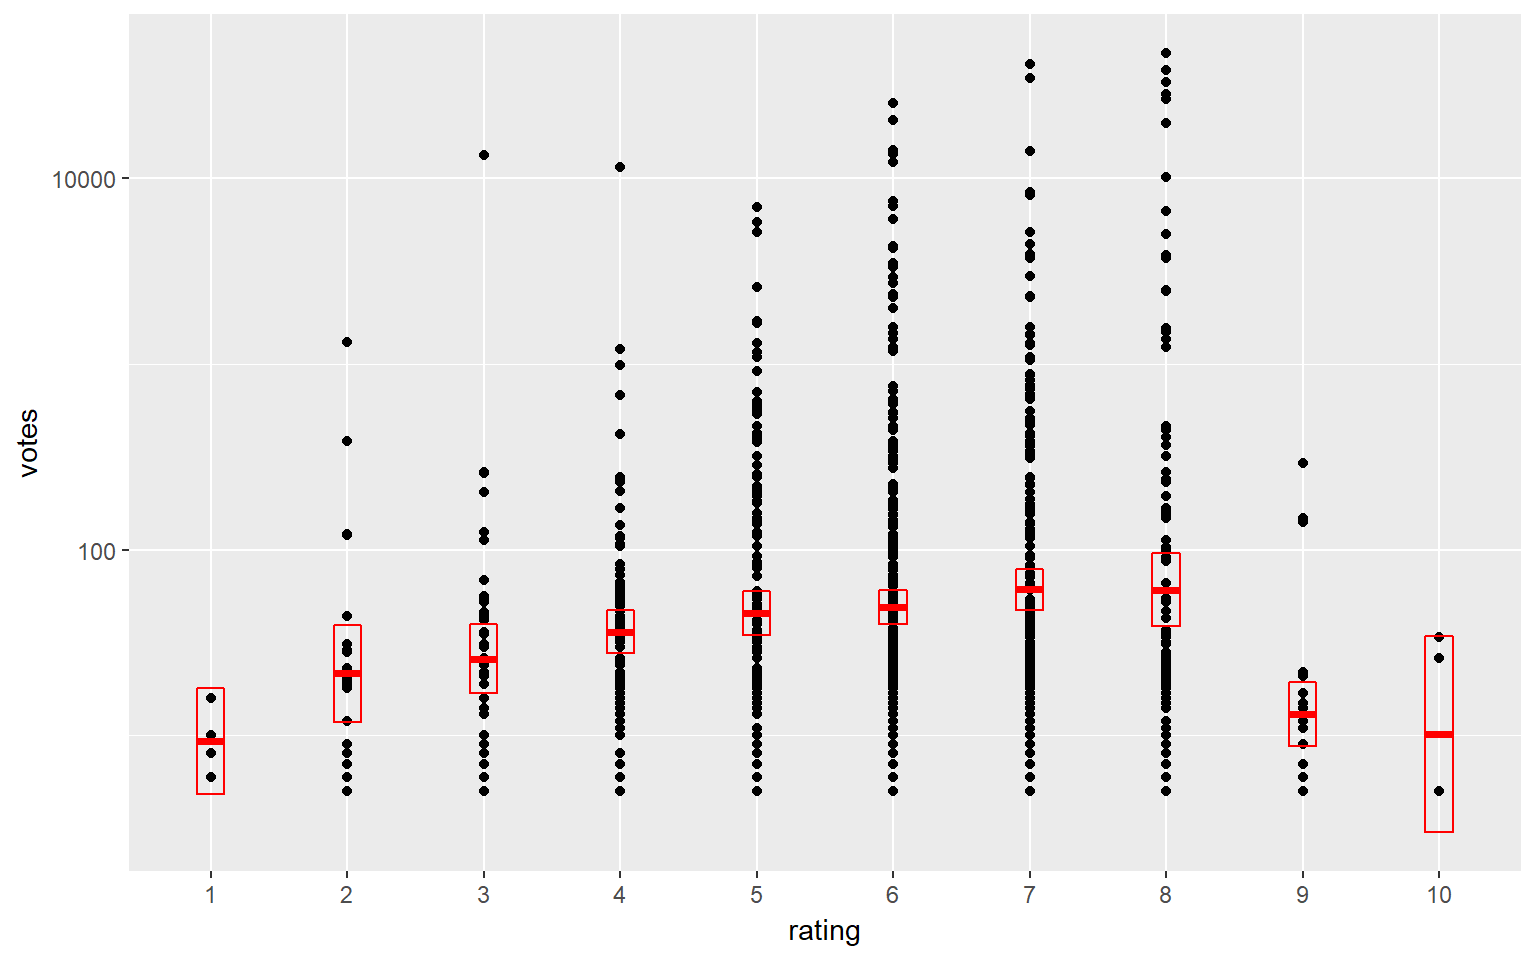
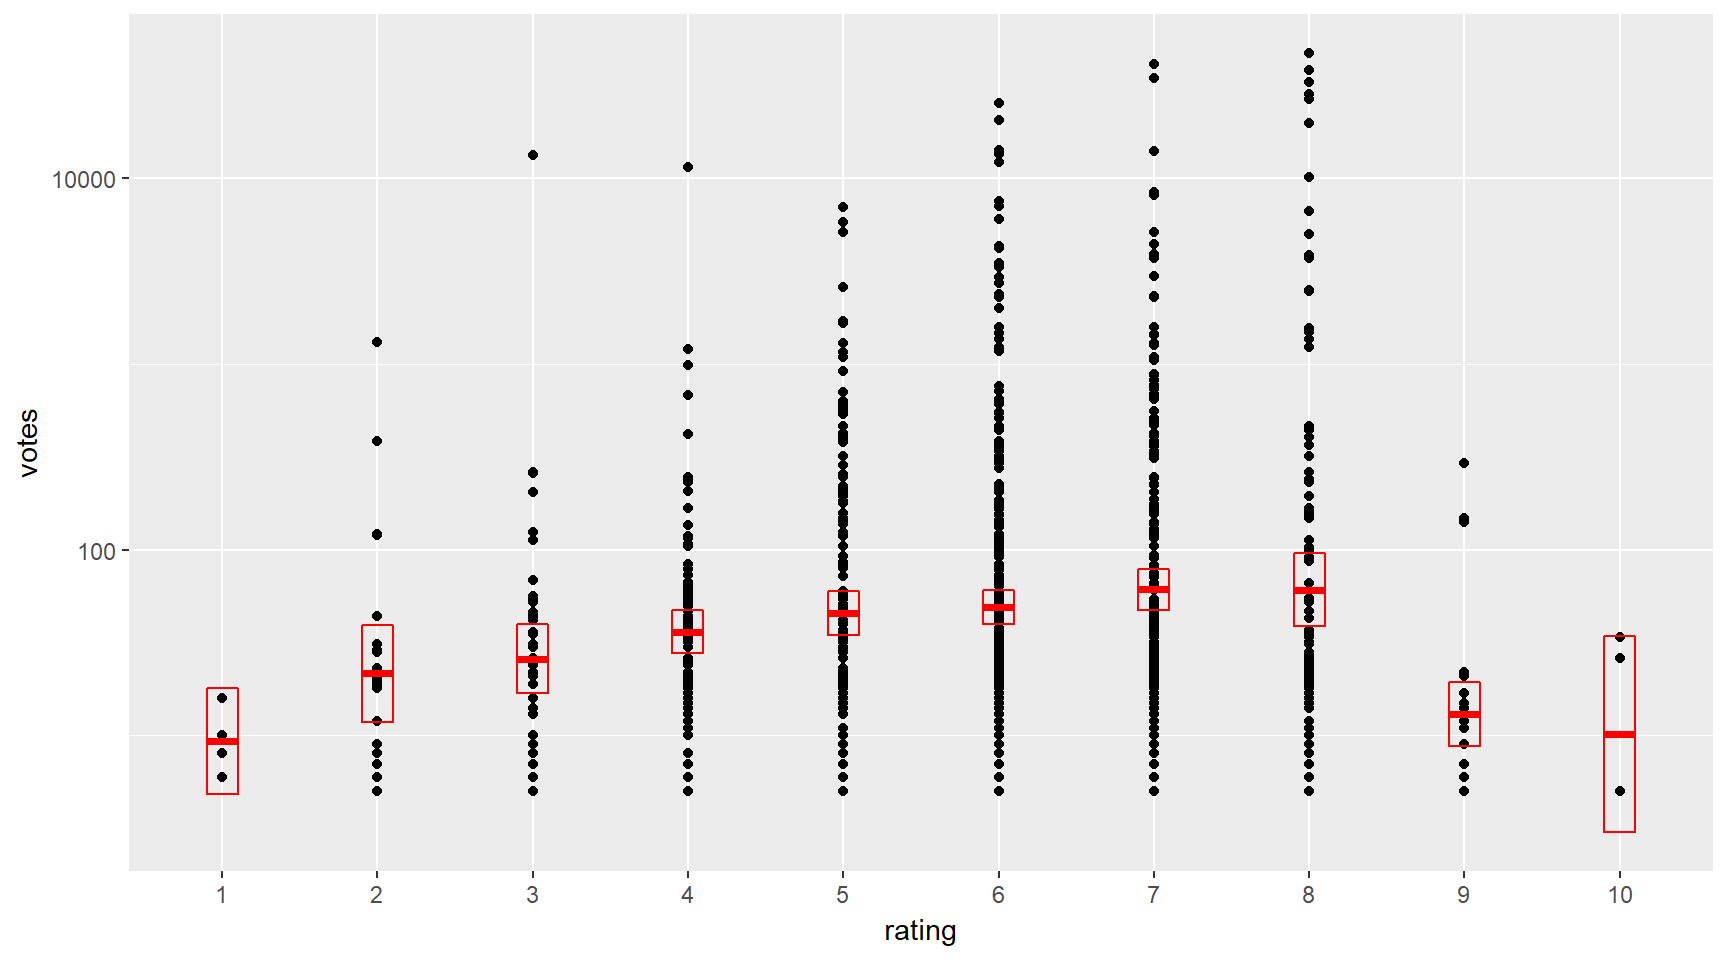
first commit

diff --git a/rstudio.html b/rstudio.html
@@ -1413,7 +1413,7 @@ ggplot(movies_small, aes(x = rating, y = votes)) +
                width = 0.2,
                col = &quot;red&quot;) +
   scale_y_log10() # transform the y scale</code></pre>
-<p><img src="rstudio_files/figure-html/unnamed-chunk-133-1.png" width="768" /></p>
+<p><img src="rstudio_files/figure-html/unnamed-chunk-133-1.png" width="864" /></p>
 <pre class="r"><code>ggplot(diamonds, aes(x = carat, y = price, col = color)) +
   geom_point(alpha = 0.5, size = 0.5, shape = 16) +
   scale_x_log10(expression(log[10](Carat)), limits = c(0.1,10)) +
@@ -1517,7 +1517,7 @@ p + geom_density(kernel = &quot;e&quot;)</code></pre>
 <pre class="r"><code>ggplot(diamonds, aes(x = cut, y = price, col = color)) +
   geom_boxplot(varwidth = T) +
   facet_grid(. ~ color)</code></pre>
-<p><img src="rstudio_files/figure-html/unnamed-chunk-147-1.png" width="768" /></p>
+<p><img src="rstudio_files/figure-html/unnamed-chunk-147-1.png" width="864" /></p>
 <pre class="r"><code># Individual densities
 ggplot(mammals[mammals$vore == &quot;Insectivore&quot;, ], aes(x = sleep_total, fill = vore)) +
   geom_density(col = NA, alpha = 0.35) +
@@ -1543,6 +1543,60 @@ ggplot(mammals, aes(x = sleep_total, fill = vore)) +
   scale_x_continuous(limits=c(0,24)) +
   coord_cartesian(ylim = c(0, 0.3))</code></pre>
 <p><img src="images/mammals1.png" width="50%" /><img src="images/mammals2.png" width="50%" /><img src="images/mammals3.png" width="50%" /><img src="images/mammals4.png" width="50%" /></p>
+<pre class="r"><code># Unweighted density plot from before
+ggplot(mammals, aes(x = sleep_total, fill = vore)) +
+  geom_density(col = NA, alpha = 0.35) +
+  scale_x_continuous(limits = c(0, 24)) +
+  coord_cartesian(ylim = c(0, 0.3))
+
+# Unweighted violin plot
+ggplot(mammals, aes(x = vore, y = sleep_total, fill = vore)) +
+  geom_violin()
+
+# Calculate weighting measure
+library(dplyr)
+mammals2 &lt;- mammals %&gt;%
+  group_by(vore) %&gt;%
+  mutate(n = n() / nrow(mammals)) -&gt; mammals
+
+# Weighted density plot
+ggplot(mammals2, aes(x = sleep_total, fill = vore)) +
+  geom_density(aes(weight = n), col = NA, alpha = 0.35) +
+  scale_x_continuous(limits = c(0, 24)) +
+  coord_cartesian(ylim = c(0, 0.3))
+
+# Weighted violin plot
+ggplot(mammals2, aes(x = vore, y = sleep_total, fill = vore)) +
+  geom_violin(aes(weight = n), col = NA)</code></pre>
+<p><img src="images/violin1.png" width="50%" /><img src="images/violin2.png" width="50%" /><img src="images/violin3.png" width="50%" /><img src="images/violin4.png" width="50%" /></p>
+</div>
+<div id="d-density-plots" class="section level2">
+<h2>2D Density Plots</h2>
+<p>You can consider two orthogonal density plots in the form of a 2D density plot. Just like with a 1D density plot, you can adjust the bandwidth of both axes independently.</p>
+<pre class="r"><code># Base layers
+library(datasets)
+p &lt;- ggplot(faithful, aes(x = waiting, y = eruptions)) +
+  scale_y_continuous(limits = c(1, 5.5), expand = c(0, 0)) +
+  scale_x_continuous(limits = c(40, 100), expand = c(0, 0)) +
+  coord_fixed(60 / 4.5)
+
+# 1 - Use geom_density_2d()
+p + geom_density_2d()</code></pre>
+<p><img src="rstudio_files/figure-html/unnamed-chunk-152-1.png" width="864" /></p>
+<pre class="r"><code># 2 - Use stat_density_2d() with arguments
+p + stat_density_2d(aes(col = ..level..), h = c(5, 0.5))</code></pre>
+<p><img src="rstudio_files/figure-html/unnamed-chunk-152-2.png" width="864" /></p>
+<p>Here you’ll explore the viridis package. This package contains multi-hue color palettes suitable for continuous variables. The advantage of these scales is that instead of providing an even color gradient for a continuous scale, they highlight the highest values by using an uneven color gradient on purpose. The high values are lighter colors (yellow versus blue), so they stand out more.</p>
+<pre class="r"><code>library(viridis)</code></pre>
+<pre><code>## Loading required package: viridisLite</code></pre>
+<pre class="r"><code># Add viridis color scale
+ggplot(faithful, aes(x = waiting, y = eruptions)) +
+  scale_y_continuous(limits = c(1, 5.5), expand = c(0,0)) +
+  scale_x_continuous(limits = c(40, 100), expand = c(0,0)) +
+  coord_fixed(60/4.5) +
+  stat_density_2d(geom = &quot;tile&quot;, aes(fill = ..density..), h=c(5,.5), contour = FALSE)+
+  scale_fill_viridis()</code></pre>
+<p><img src="rstudio_files/figure-html/unnamed-chunk-153-1.png" width="864" /></p>
 </div>
 </div>
 <div id="references" class="section level1">
